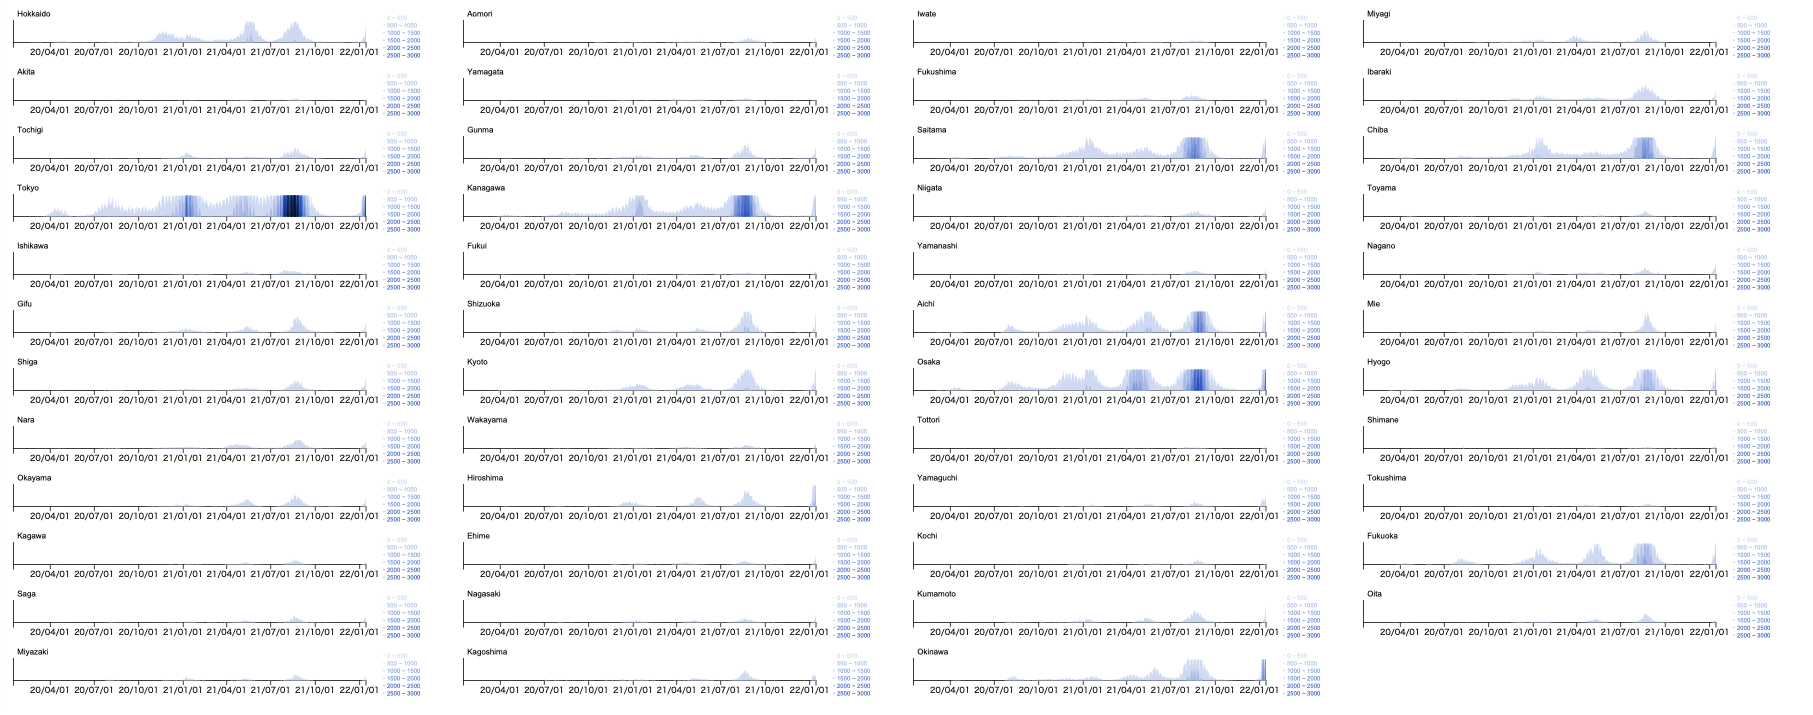
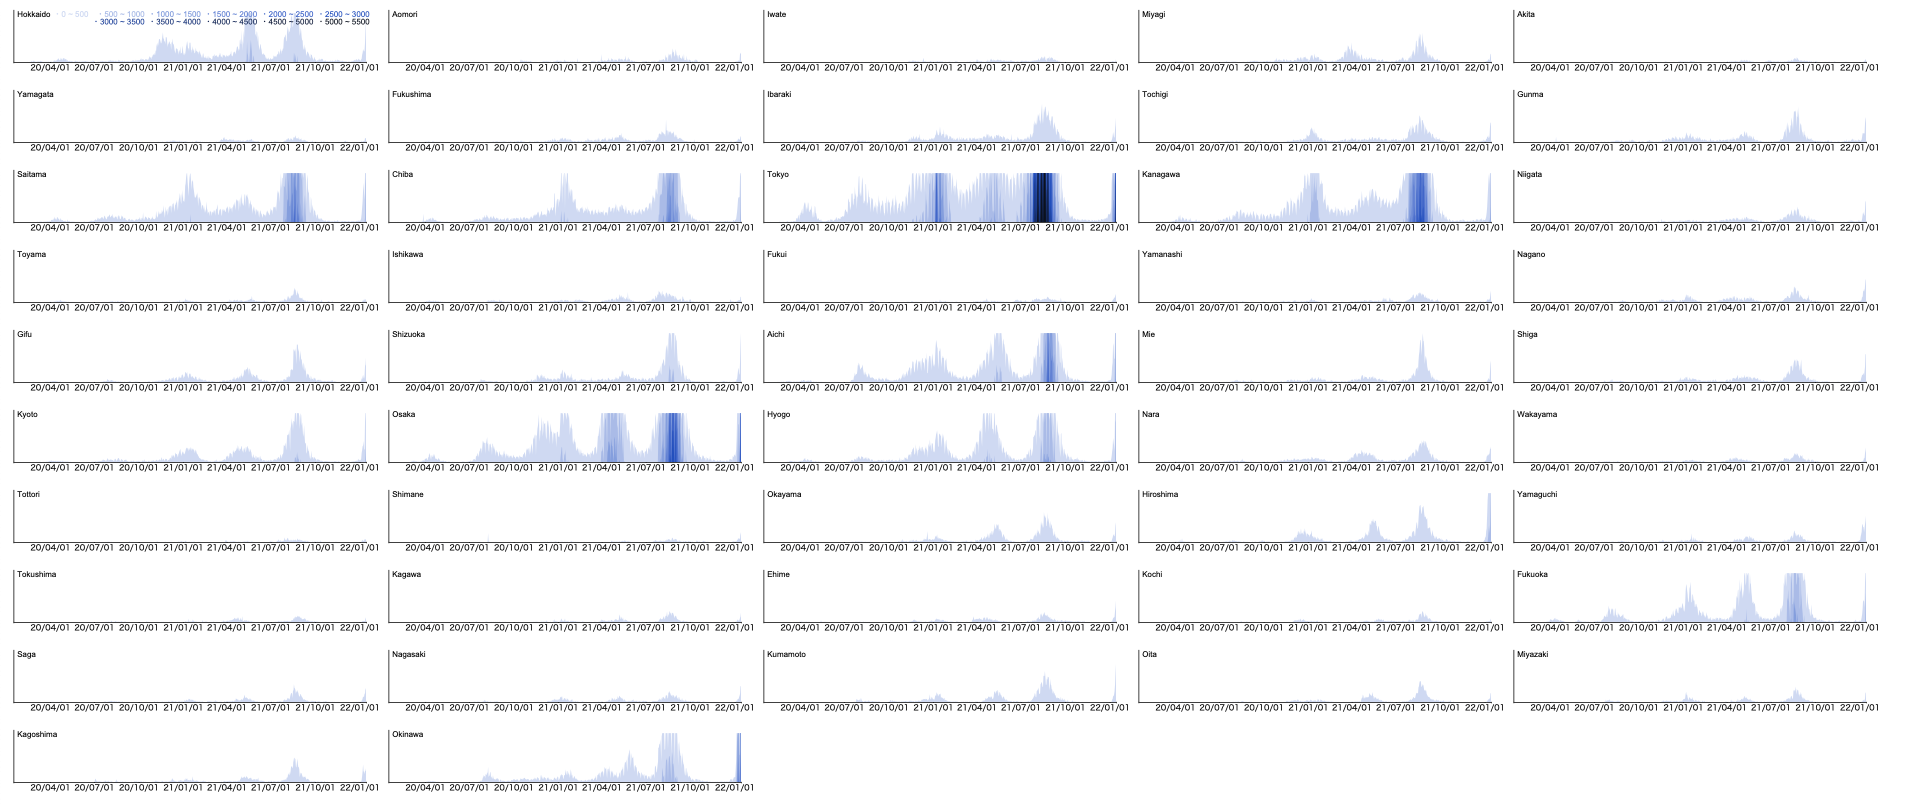
ラベルのレイアウトを手動で調整

Changed region(s): [[0.0, 0.0, 0.9884, 0.9846], [0.5251, 0.9231, 0.7413, 0.9846], [0.5869, 0.0, 0.6178, 0.0308]]

diff --git a/src/main.ts b/src/main.ts
@@ -6,10 +6,10 @@ window.addEventListener('load', () => {
     init();
 }, false);
 
-let width: number = 600;
-let height: number = 70;
-let marginTop: number = 20;
-let marginRight: number = 120;
+let width: number = 500;
+let height: number = 100;
+let marginTop: number = 10;
+let marginRight: number = 20;
 let marginBottom: number = 20;
 let marginLeft: number = 10;
 
@@ -32,7 +32,7 @@ function draw(data: DSVRowArray): void {
     let chartHeight: number = height - marginTop - marginBottom;
 
     const keys: string[] = Object.keys(data[0]);
-    // const keys: string[] = ["Tokyo", "Saitama", "Kanagawa", "Chiba", "Tochigi", "Gunma", "Ibaraki"];
+    // const keys: string[] = ["Tokyo", "Saitama", "Kanagawa", "Chiba", "Aichi", "Osaka", "Fukuoka", "Okinawa"];
 
     // 最大値を求める (これをしないと縦軸のスケールが揃わない)
     let max: number = 0;
@@ -48,6 +48,7 @@ function draw(data: DSVRowArray): void {
     const vAxisMax: number = 500; // 縦軸のメモリの上限
     const div: number = Math.floor(max / vAxisMax); // 分割数
 
+    let count: number = 0;
     keys.forEach((key: string) => {
         if (key != 'ALL' && key != 'Date') {
 
@@ -66,7 +67,7 @@ function draw(data: DSVRowArray): void {
                 .range([0, chartWidth]);
             svg.append("g")
                 .attr("transform", "translate(" + marginLeft + "," + Number(marginTop + chartHeight) + ")")
-                .call(d3.axisBottom(xScale).ticks(10).tickFormat(<any>d3.timeFormat("%y/%m/%d")));
+                .call(d3.axisBottom(xScale).ticks(10).tickFormat(<any>d3.timeFormat("%y/%m/%d")).tickSize(1));
 
 
             // y axis
@@ -78,26 +79,36 @@ function draw(data: DSVRowArray): void {
                 .call(d3.axisLeft(yScale).ticks(0).tickSize(0));
 
 
-
             horizonData.forEach((data0: any, i: number) => {
+
+                // カラーラベル
+                let lightness: string = String(90 - 90 * i / div);
+                let color: string = "hsl(225, 60%, " + lightness + "%)";
+                let vMargin: number = 0;
+                let hMargin: number = i;
+                if (i > div / 2) {
+                    vMargin = 10;
+                    hMargin = i - Math.floor(div/2);
+                }
+                if (count === 0) {
+                    svg.append("text")
+                        .attr("text-anchor", "end")
+                        .attr("y", marginTop + 10 + vMargin)
+                        .attr("x", marginLeft + 100 + 75 * hMargin)
+                        .attr("font-size", "10px")
+                        .attr("font-family", "Arial")
+                        .attr("fill", color)
+                        .text("・" + String(Math.floor(i * vAxisMax)) + " ~ " + String(Math.floor((i + 1) * vAxisMax)));
+                }
+
+                
+
                 // 面
                 const area: any = d3.area()
                     .x((d: any) => xScale(new Date(String(d.Date))))
                     .y0(yScale(0))
                     .y1((d: any) => yScale(Number(d[key])));
 
-                let lightness: string = String(90 - 90 * i / horizonData.length);
-                let color: string = "hsl(225, 60%, " + lightness + "%)";
-
-                // カラーラベル
-                svg.append("text")
-                    .attr("text-anchor", "start")
-                    .attr("y", marginTop + 10 * i)
-                    .attr("x", chartWidth + marginLeft + 20)
-                    .attr("font-size", "8px")
-                    .attr("font-family", "Arial")
-                    .attr("fill", color)
-                    .text("・"+String(Math.floor(i * vAxisMax)) + " ~ " + String(Math.floor((i + 1) * vAxisMax)));
 
                 // 描画
                 svg.append("path")
@@ -109,16 +120,15 @@ function draw(data: DSVRowArray): void {
                     .attr("d", area);
             });
 
+            count++;
             // ラベル
             svg.append("text")
                 .attr("text-anchor", "start")
-                .attr("y", 15)
-                .attr("x", 15)
+                .attr("y", marginTop + 10)
+                .attr("x", marginLeft + 5)
                 .attr("font-size", "10px")
                 .attr("font-family", "Arial")
                 .text(key);
-
-
         }
     });
 }
